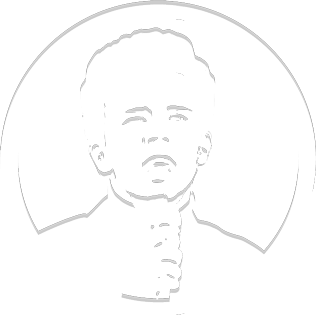
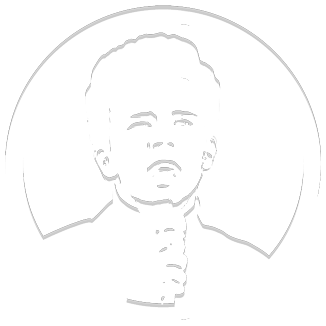
Mobile interface

diff --git a/index.html b/index.html
@@ -3,10 +3,25 @@
 	<head>
 		<title>Never Gonna Run Around</title>
 		<link href='http://fonts.googleapis.com/css?family=Yanone+Kaffeesatz:200' rel='stylesheet' type='text/css'>
+		<meta name="viewport" content="width=450" />
 		<style type="text/css">
 			body {
 				margin: 0;
 				font-family: 'Yanone Kaffeesatz', sans-serif;
+			}
+			#main {
+				width: 366px;
+				margin: 0 auto;
+				padding: 0;
+			}
+			#rick {
+				width: 316px;
+				height: 316px;
+				margin: 60px auto 0;
+			}
+			#rick img {
+				margin: -15px -15px 0;
+				border: 10px solid white;
 			}
 			h1 {
 				margin: 50px -20px 0;
@@ -14,20 +29,8 @@
 				font-size: 36px;
 				text-align: center;
 			}
-			#main {
-				width: 316px;
-				margin: 0 auto;
-				padding: 0;
-			}
-			#rick {
-				height: 316px;
-				margin: 50px 0 0 0;
-
-				background-image: url(rick.png);
-				background-repeat: no-repeat;
-			}
 			p {
-				margin: 15px -40px;
+				margin: 15px 0;
 				text-align: center;
 				line-height: 16px;
 			}
@@ -73,7 +76,7 @@
 	</head>
 	<body>
 		<div id="main">
-			<div id="rick"></div>
+			<div id="rick"><img src="rick.png" /></div>
 			<h1>Never Gonna Run Around</h1>
 			<p>a <strong>Never Gonna Let You Down Limited</strong> production</p>
 			<p><a href="http://data.companieshouse.gov.uk/doc/company/SC435597"><span id="duedil"></span> SC435597</a></p>
